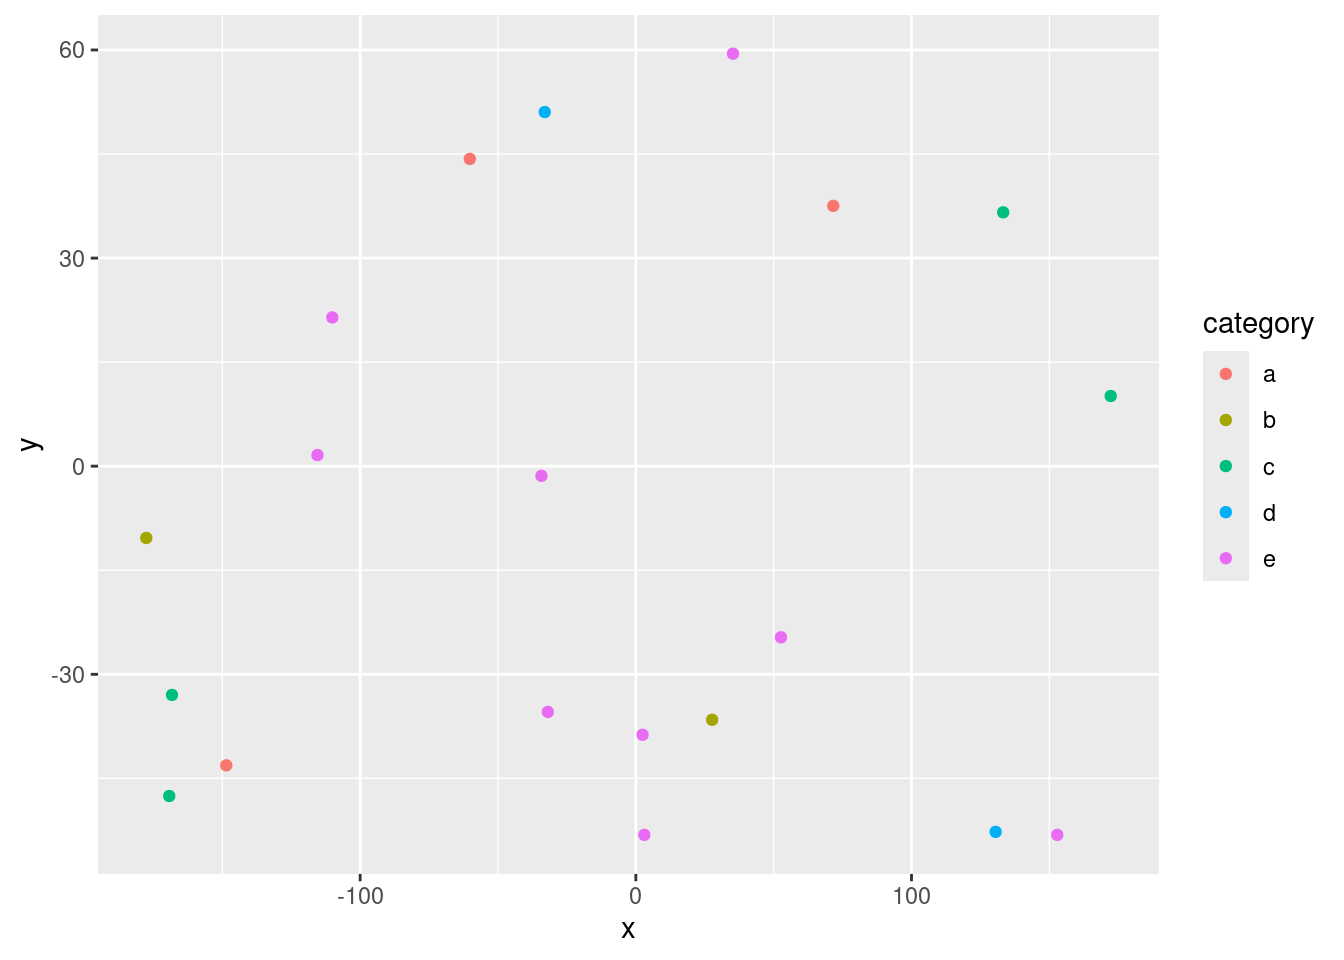
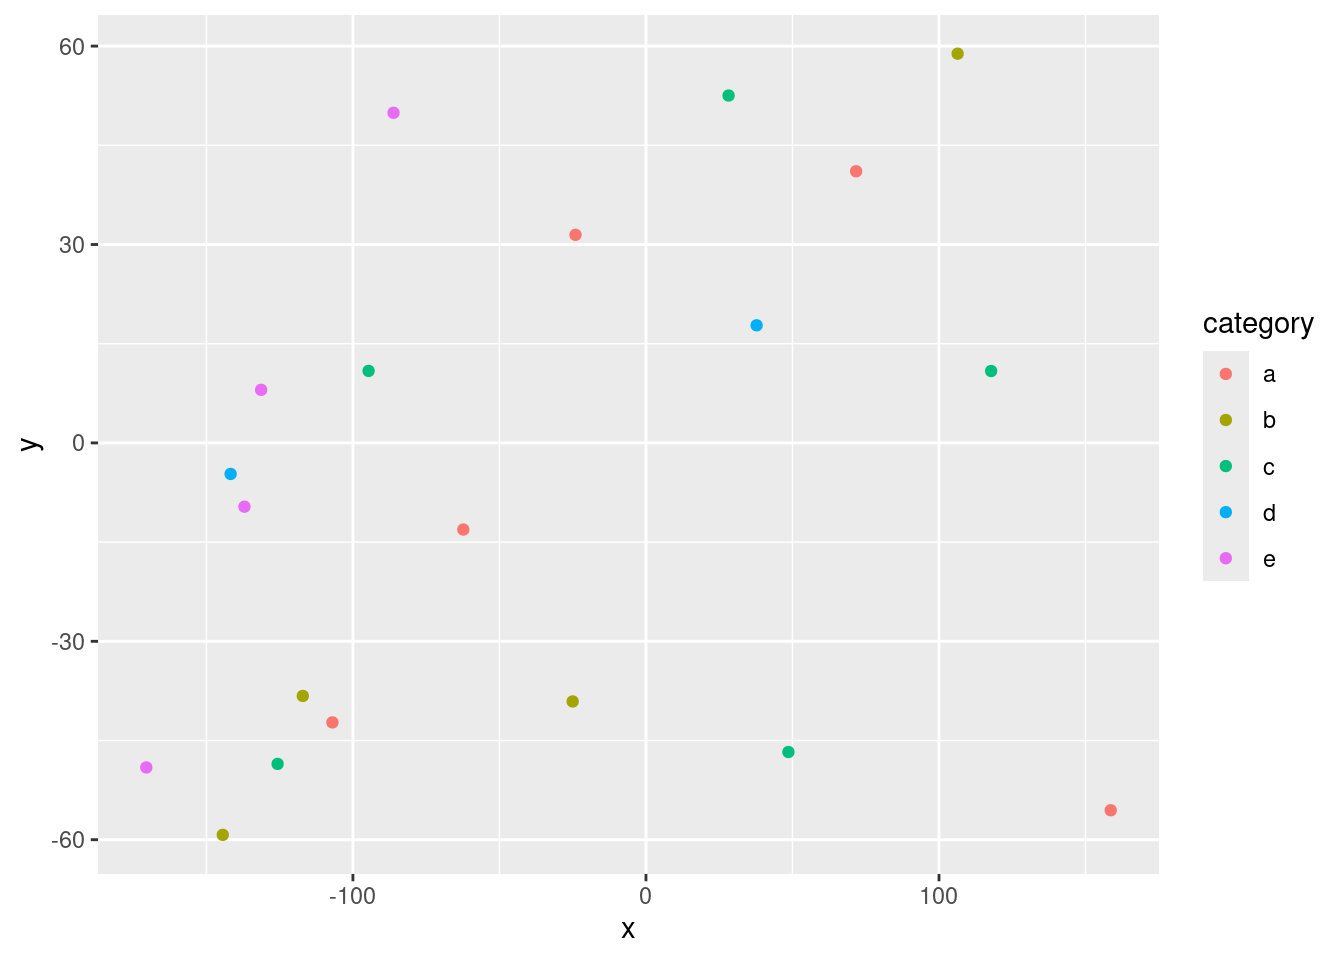
Built site for gh-pages

diff --git a/index.html b/index.html
@@ -168,7 +168,7 @@ pre > code.sourceCode > span > a:first-child::before { text-decoration: underlin
 <header id="title-block-header" class="quarto-title-block default">
 <div class="quarto-title">
 <h1 class="title">Analysis of Urban Tree Cover: City of Buffalo 2024</h1>
-<p class="subtitle lead">Work in Progress</p>
+<p class="subtitle lead">Work in Progress, Pay no attention to the man behind the curtain</p>
 </div>
 
 
@@ -212,6 +212,7 @@ pre > code.sourceCode > span > a:first-child::before { text-decoration: underlin
 <p>You can do bullets like this:</p>
 <ul>
 <li>The first most important thing</li>
+<li>https_//data.buffalony.gov/api/views/n4ni-uuec/rows.csv?accessType=DOWNLOAD</li>
 <li>The second most important thing</li>
 <li>The third most important thing</li>
 </ul>
@@ -267,74 +268,74 @@ pre > code.sourceCode > span > a:first-child::before { text-decoration: underlin
 </thead>
 <tbody>
 <tr class="odd">
-<td style="text-align: center;">-177.58</td>
-<td style="text-align: center;">-10.34</td>
-<td style="text-align: center;">13.76</td>
+<td style="text-align: center;">-25.01</td>
+<td style="text-align: center;">-39.10</td>
+<td style="text-align: center;">19.96</td>
 <td style="text-align: center;">b</td>
-<td style="text-align: center;">0.55</td>
+<td style="text-align: center;">-1.04</td>
 </tr>
 <tr class="even">
-<td style="text-align: center;">-168.26</td>
-<td style="text-align: center;">-32.98</td>
-<td style="text-align: center;">17.14</td>
-<td style="text-align: center;">c</td>
-<td style="text-align: center;">-1.70</td>
-</tr>
-<tr class="odd">
-<td style="text-align: center;">152.87</td>
-<td style="text-align: center;">-53.15</td>
-<td style="text-align: center;">6.79</td>
-<td style="text-align: center;">e</td>
-<td style="text-align: center;">1.37</td>
-</tr>
-<tr class="even">
-<td style="text-align: center;">-110.10</td>
-<td style="text-align: center;">21.44</td>
-<td style="text-align: center;">15.62</td>
-<td style="text-align: center;">e</td>
-<td style="text-align: center;">1.27</td>
-</tr>
-<tr class="odd">
-<td style="text-align: center;">-169.26</td>
-<td style="text-align: center;">-47.55</td>
-<td style="text-align: center;">14.34</td>
-<td style="text-align: center;">c</td>
-<td style="text-align: center;">0.05</td>
-</tr>
-<tr class="even">
-<td style="text-align: center;">130.53</td>
-<td style="text-align: center;">-52.71</td>
-<td style="text-align: center;">12.85</td>
+<td style="text-align: center;">-141.74</td>
+<td style="text-align: center;">-4.70</td>
+<td style="text-align: center;">16.68</td>
 <td style="text-align: center;">d</td>
-<td style="text-align: center;">0.50</td>
+<td style="text-align: center;">0.12</td>
 </tr>
 <tr class="odd">
-<td style="text-align: center;">2.43</td>
-<td style="text-align: center;">-38.72</td>
-<td style="text-align: center;">9.55</td>
-<td style="text-align: center;">e</td>
-<td style="text-align: center;">0.27</td>
+<td style="text-align: center;">71.72</td>
+<td style="text-align: center;">41.07</td>
+<td style="text-align: center;">9.44</td>
+<td style="text-align: center;">a</td>
+<td style="text-align: center;">-0.61</td>
 </tr>
 <tr class="even">
-<td style="text-align: center;">27.68</td>
-<td style="text-align: center;">-36.56</td>
-<td style="text-align: center;">15.93</td>
+<td style="text-align: center;">-86.14</td>
+<td style="text-align: center;">49.92</td>
+<td style="text-align: center;">13.36</td>
+<td style="text-align: center;">e</td>
+<td style="text-align: center;">-1.25</td>
+</tr>
+<tr class="odd">
+<td style="text-align: center;">158.60</td>
+<td style="text-align: center;">-55.55</td>
+<td style="text-align: center;">10.91</td>
+<td style="text-align: center;">a</td>
+<td style="text-align: center;">-0.24</td>
+</tr>
+<tr class="even">
+<td style="text-align: center;">-24.04</td>
+<td style="text-align: center;">31.46</td>
+<td style="text-align: center;">15.12</td>
+<td style="text-align: center;">a</td>
+<td style="text-align: center;">-0.77</td>
+</tr>
+<tr class="odd">
+<td style="text-align: center;">-144.41</td>
+<td style="text-align: center;">-59.27</td>
+<td style="text-align: center;">6.67</td>
 <td style="text-align: center;">b</td>
-<td style="text-align: center;">0.40</td>
-</tr>
-<tr class="odd">
-<td style="text-align: center;">133.25</td>
-<td style="text-align: center;">36.59</td>
-<td style="text-align: center;">6.28</td>
-<td style="text-align: center;">c</td>
-<td style="text-align: center;">-0.03</td>
+<td style="text-align: center;">0.17</td>
 </tr>
 <tr class="even">
-<td style="text-align: center;">52.65</td>
-<td style="text-align: center;">-24.67</td>
-<td style="text-align: center;">7.98</td>
-<td style="text-align: center;">e</td>
-<td style="text-align: center;">0.90</td>
+<td style="text-align: center;">117.80</td>
+<td style="text-align: center;">10.87</td>
+<td style="text-align: center;">10.90</td>
+<td style="text-align: center;">c</td>
+<td style="text-align: center;">-0.76</td>
+</tr>
+<tr class="odd">
+<td style="text-align: center;">28.19</td>
+<td style="text-align: center;">52.53</td>
+<td style="text-align: center;">7.05</td>
+<td style="text-align: center;">c</td>
+<td style="text-align: center;">0.74</td>
+</tr>
+<tr class="even">
+<td style="text-align: center;">-125.71</td>
+<td style="text-align: center;">-48.54</td>
+<td style="text-align: center;">11.17</td>
+<td style="text-align: center;">c</td>
+<td style="text-align: center;">-0.59</td>
 </tr>
 </tbody>
 </table>
@@ -356,8 +357,8 @@ pre > code.sourceCode > span > a:first-child::before { text-decoration: underlin
 <span id="cb5-4"><a href="#cb5-4" aria-hidden="true" tabindex="-1"></a>  <span class="fu">addPopups</span>(<span class="sc">~</span>x[<span class="dv">2</span>], <span class="sc">~</span>y[<span class="dv">2</span>], <span class="st">"Random popup"</span>)</span>
 <span id="cb5-5"><a href="#cb5-5" aria-hidden="true" tabindex="-1"></a>m  <span class="co"># a map with the default OSM tile layer</span></span></code><button title="Copy to Clipboard" class="code-copy-button"><i class="bi"></i></button></pre></div>
 <div class="cell-output-display">
-<div class="leaflet html-widget html-fill-item" id="htmlwidget-f9456d033fb25e3c9dec" style="width:100%;height:325px;"></div>
-<script type="application/json" data-for="htmlwidget-f9456d033fb25e3c9dec">{"x":{"options":{"crs":{"crsClass":"L.CRS.EPSG3857","code":null,"proj4def":null,"projectedBounds":null,"options":{}}},"calls":[{"method":"addTiles","args":["https://{s}.tile.openstreetmap.org/{z}/{x}/{y}.png",null,null,{"minZoom":0,"maxZoom":18,"tileSize":256,"subdomains":"abc","errorTileUrl":"","tms":false,"noWrap":false,"zoomOffset":0,"zoomReverse":false,"opacity":1,"zIndex":1,"detectRetina":false,"attribution":"&copy; <a href=\"https://openstreetmap.org/copyright/\">OpenStreetMap<\/a>,  <a href=\"https://opendatacommons.org/licenses/odbl/\">ODbL<\/a>"}]},{"method":"addCircleMarkers","args":[[-10.34031447954476,-32.97632804140449,-53.14674703404307,21.44437219016254,-47.54778608679771,-52.71326238289475,-38.71808200143278,-36.56063013710082,36.59374278970063,-24.66925436630845,10.11686014942825,-53.14902786165476,59.4681382086128,51.05119977146387,-43.13101815059781,-35.4290440119803,1.600914783775806,37.52817051485181,-1.393177360296249,44.29458757862449],[-177.5823422055691,-168.2625163905323,152.8662885446101,-110.104066086933,-169.2595474608243,130.5253660026938,2.431993782520294,27.67752111889422,133.2529382966459,52.64559974893928,172.2634712699801,3.069752007722855,35.2455603517592,-33.046341156587,-148.5707645863295,-31.91450888291001,-115.4840410966426,71.62412786856294,-34.24342554062605,-60.2258868701756],[13.76266710460186,17.13761580525897,6.788592755328864,15.62462489819154,14.34483517543413,12.85356076667085,9.550645156996325,15.93468809616752,6.28431377466768,7.976659007836133,18.80783915985376,12.3645954253152,16.80534519138746,14.28932513808832,6.106830481439829,7.038827353389934,14.56135505577549,19.849233108107,19.75860362290405,19.24461925402284],null,null,{"interactive":true,"className":"","stroke":true,"color":["b","c","e","e","c","d","e","b","c","e","c","e","e","d","a","e","e","a","e","a"],"weight":5,"opacity":0.5,"fill":true,"fillColor":["b","c","e","e","c","d","e","b","c","e","c","e","e","d","a","e","e","a","e","a"],"fillOpacity":0.2},null,null,null,null,null,{"interactive":false,"permanent":false,"direction":"auto","opacity":1,"offset":[0,0],"textsize":"10px","textOnly":false,"className":"","sticky":true},null]},{"method":"addPopups","args":[-32.97632804140449,-168.2625163905323,"Random popup",null,null,{"maxWidth":300,"minWidth":50,"autoPan":true,"keepInView":false,"closeButton":true,"className":""}]}],"limits":{"lat":[-53.14902786165476,59.4681382086128],"lng":[-177.5823422055691,172.2634712699801]}},"evals":[],"jsHooks":[]}</script>
+<div class="leaflet html-widget html-fill-item" id="htmlwidget-168268369600747f86f0" style="width:100%;height:325px;"></div>
+<script type="application/json" data-for="htmlwidget-168268369600747f86f0">{"x":{"options":{"crs":{"crsClass":"L.CRS.EPSG3857","code":null,"proj4def":null,"projectedBounds":null,"options":{}}},"calls":[{"method":"addTiles","args":["https://{s}.tile.openstreetmap.org/{z}/{x}/{y}.png",null,null,{"minZoom":0,"maxZoom":18,"tileSize":256,"subdomains":"abc","errorTileUrl":"","tms":false,"noWrap":false,"zoomOffset":0,"zoomReverse":false,"opacity":1,"zIndex":1,"detectRetina":false,"attribution":"&copy; <a href=\"https://openstreetmap.org/copyright/\">OpenStreetMap<\/a>,  <a href=\"https://opendatacommons.org/licenses/odbl/\">ODbL<\/a>"}]},{"method":"addCircleMarkers","args":[[-39.09839607775211,-4.696176862344146,41.07297895476222,49.9161060154438,-55.5524861253798,31.46188599988818,-59.27236871793866,10.8701011352241,52.52930307760835,-48.54176659137011,-38.26191287487745,-46.74346416257322,-42.26706110872328,-49.07783875241876,58.85697819292545,8.022894328460097,-9.644012935459614,10.88723536580801,-13.10212089680135,17.78062622062862],[-25.01206669025123,-141.740560149774,71.72386279329658,-86.13688451237977,158.6020717397332,-24.044283432886,-144.4092959258705,117.797083184123,28.19479275494814,-125.7056775502861,-117.1057490073144,48.61757224425673,-106.9963141344488,-170.5145303439349,106.3658273778856,-131.3258585426956,-137.0225440151989,-94.6556834410876,-62.32370859012008,37.77219613082707],[19.9585533014033,16.67554903193377,9.444898266810924,13.36228974862024,10.90759944170713,15.1244837034028,6.666768128052354,10.89511740487069,7.049253553850576,11.17175235413015,6.00695674540475,12.63947851839475,9.393855280941352,13.35309593938291,16.84261691640131,17.72778611048125,15.16208202927373,11.69185934704728,14.27902411436662,9.545504682464525],null,null,{"interactive":true,"className":"","stroke":true,"color":["b","d","a","e","a","a","b","c","c","c","b","c","a","e","b","e","e","c","a","d"],"weight":5,"opacity":0.5,"fill":true,"fillColor":["b","d","a","e","a","a","b","c","c","c","b","c","a","e","b","e","e","c","a","d"],"fillOpacity":0.2},null,null,null,null,null,{"interactive":false,"permanent":false,"direction":"auto","opacity":1,"offset":[0,0],"textsize":"10px","textOnly":false,"className":"","sticky":true},null]},{"method":"addPopups","args":[-4.696176862344146,-141.740560149774,"Random popup",null,null,{"maxWidth":300,"minWidth":50,"autoPan":true,"keepInView":false,"closeButton":true,"className":""}]}],"limits":{"lat":[-59.27236871793866,58.85697819292545],"lng":[-170.5145303439349,158.6020717397332]}},"evals":[],"jsHooks":[]}</script>
 <p>Map of completely random data</p>
 </div>
 </div>
@@ -380,8 +381,8 @@ pre > code.sourceCode > span > a:first-child::before { text-decoration: underlin
 <span id="cb7-2"><a href="#cb7-2" aria-hidden="true" tabindex="-1"></a><span class="fu">dygraph</span>(nhtemp, <span class="at">main =</span> <span class="st">"New Haven Temperatures"</span>) <span class="sc">|&gt;</span> </span>
 <span id="cb7-3"><a href="#cb7-3" aria-hidden="true" tabindex="-1"></a>  <span class="fu">dyRangeSelector</span>(<span class="at">dateWindow =</span> <span class="fu">c</span>(<span class="st">"1920-01-01"</span>, <span class="st">"1960-01-01"</span>)) </span></code><button title="Copy to Clipboard" class="code-copy-button"><i class="bi"></i></button></pre></div>
 <div class="cell-output-display">
-<div class="dygraphs html-widget html-fill-item" id="htmlwidget-b42eebb90aeae4c67947" style="width:100%;height:464px;"></div>
-<script type="application/json" data-for="htmlwidget-b42eebb90aeae4c67947">{"x":{"attrs":{"title":"New Haven Temperatures","labels":["year","V1"],"legend":"auto","retainDateWindow":false,"axes":{"x":{"pixelsPerLabel":60}},"showRangeSelector":true,"dateWindow":["1920-01-01T00:00:00.000Z","1960-01-01T00:00:00.000Z"],"rangeSelectorHeight":40,"rangeSelectorPlotFillColor":" #A7B1C4","rangeSelectorPlotStrokeColor":"#808FAB","interactionModel":"Dygraph.Interaction.defaultModel"},"scale":"yearly","annotations":[],"shadings":[],"events":[],"format":"date","data":[["1912-01-01T00:00:00.000Z","1913-01-01T00:00:00.000Z","1914-01-01T00:00:00.000Z","1915-01-01T00:00:00.000Z","1916-01-01T00:00:00.000Z","1917-01-01T00:00:00.000Z","1918-01-01T00:00:00.000Z","1919-01-01T00:00:00.000Z","1920-01-01T00:00:00.000Z","1921-01-01T00:00:00.000Z","1922-01-01T00:00:00.000Z","1923-01-01T00:00:00.000Z","1924-01-01T00:00:00.000Z","1925-01-01T00:00:00.000Z","1926-01-01T00:00:00.000Z","1927-01-01T00:00:00.000Z","1928-01-01T00:00:00.000Z","1929-01-01T00:00:00.000Z","1930-01-01T00:00:00.000Z","1931-01-01T00:00:00.000Z","1932-01-01T00:00:00.000Z","1933-01-01T00:00:00.000Z","1934-01-01T00:00:00.000Z","1935-01-01T00:00:00.000Z","1936-01-01T00:00:00.000Z","1937-01-01T00:00:00.000Z","1938-01-01T00:00:00.000Z","1939-01-01T00:00:00.000Z","1940-01-01T00:00:00.000Z","1941-01-01T00:00:00.000Z","1942-01-01T00:00:00.000Z","1943-01-01T00:00:00.000Z","1944-01-01T00:00:00.000Z","1945-01-01T00:00:00.000Z","1946-01-01T00:00:00.000Z","1947-01-01T00:00:00.000Z","1948-01-01T00:00:00.000Z","1949-01-01T00:00:00.000Z","1950-01-01T00:00:00.000Z","1951-01-01T00:00:00.000Z","1952-01-01T00:00:00.000Z","1953-01-01T00:00:00.000Z","1954-01-01T00:00:00.000Z","1955-01-01T00:00:00.000Z","1956-01-01T00:00:00.000Z","1957-01-01T00:00:00.000Z","1958-01-01T00:00:00.000Z","1959-01-01T00:00:00.000Z","1960-01-01T00:00:00.000Z","1961-01-01T00:00:00.000Z","1962-01-01T00:00:00.000Z","1963-01-01T00:00:00.000Z","1964-01-01T00:00:00.000Z","1965-01-01T00:00:00.000Z","1966-01-01T00:00:00.000Z","1967-01-01T00:00:00.000Z","1968-01-01T00:00:00.000Z","1969-01-01T00:00:00.000Z","1970-01-01T00:00:00.000Z","1971-01-01T00:00:00.000Z"],[49.9,52.3,49.4,51.1,49.4,47.9,49.8,50.9,49.3,51.9,50.8,49.6,49.3,50.6,48.4,50.7,50.9,50.6,51.5,52.8,51.8,51.1,49.8,50.2,50.4,51.6,51.8,50.9,48.8,51.7,51,50.6,51.7,51.5,52.1,51.3,51,54,51.4,52.7,53.1,54.6,52,52,50.9,52.6,50.2,52.6,51.6,51.9,50.5,50.9,51.7,51.4,51.7,50.8,51.9,51.8,51.9,53]]},"evals":["attrs.interactionModel"],"jsHooks":[]}</script>
+<div class="dygraphs html-widget html-fill-item" id="htmlwidget-13fb2ac7ba98c6a9495a" style="width:100%;height:464px;"></div>
+<script type="application/json" data-for="htmlwidget-13fb2ac7ba98c6a9495a">{"x":{"attrs":{"title":"New Haven Temperatures","labels":["year","V1"],"legend":"auto","retainDateWindow":false,"axes":{"x":{"pixelsPerLabel":60}},"showRangeSelector":true,"dateWindow":["1920-01-01T00:00:00.000Z","1960-01-01T00:00:00.000Z"],"rangeSelectorHeight":40,"rangeSelectorPlotFillColor":" #A7B1C4","rangeSelectorPlotStrokeColor":"#808FAB","interactionModel":"Dygraph.Interaction.defaultModel"},"scale":"yearly","annotations":[],"shadings":[],"events":[],"format":"date","data":[["1912-01-01T00:00:00.000Z","1913-01-01T00:00:00.000Z","1914-01-01T00:00:00.000Z","1915-01-01T00:00:00.000Z","1916-01-01T00:00:00.000Z","1917-01-01T00:00:00.000Z","1918-01-01T00:00:00.000Z","1919-01-01T00:00:00.000Z","1920-01-01T00:00:00.000Z","1921-01-01T00:00:00.000Z","1922-01-01T00:00:00.000Z","1923-01-01T00:00:00.000Z","1924-01-01T00:00:00.000Z","1925-01-01T00:00:00.000Z","1926-01-01T00:00:00.000Z","1927-01-01T00:00:00.000Z","1928-01-01T00:00:00.000Z","1929-01-01T00:00:00.000Z","1930-01-01T00:00:00.000Z","1931-01-01T00:00:00.000Z","1932-01-01T00:00:00.000Z","1933-01-01T00:00:00.000Z","1934-01-01T00:00:00.000Z","1935-01-01T00:00:00.000Z","1936-01-01T00:00:00.000Z","1937-01-01T00:00:00.000Z","1938-01-01T00:00:00.000Z","1939-01-01T00:00:00.000Z","1940-01-01T00:00:00.000Z","1941-01-01T00:00:00.000Z","1942-01-01T00:00:00.000Z","1943-01-01T00:00:00.000Z","1944-01-01T00:00:00.000Z","1945-01-01T00:00:00.000Z","1946-01-01T00:00:00.000Z","1947-01-01T00:00:00.000Z","1948-01-01T00:00:00.000Z","1949-01-01T00:00:00.000Z","1950-01-01T00:00:00.000Z","1951-01-01T00:00:00.000Z","1952-01-01T00:00:00.000Z","1953-01-01T00:00:00.000Z","1954-01-01T00:00:00.000Z","1955-01-01T00:00:00.000Z","1956-01-01T00:00:00.000Z","1957-01-01T00:00:00.000Z","1958-01-01T00:00:00.000Z","1959-01-01T00:00:00.000Z","1960-01-01T00:00:00.000Z","1961-01-01T00:00:00.000Z","1962-01-01T00:00:00.000Z","1963-01-01T00:00:00.000Z","1964-01-01T00:00:00.000Z","1965-01-01T00:00:00.000Z","1966-01-01T00:00:00.000Z","1967-01-01T00:00:00.000Z","1968-01-01T00:00:00.000Z","1969-01-01T00:00:00.000Z","1970-01-01T00:00:00.000Z","1971-01-01T00:00:00.000Z"],[49.9,52.3,49.4,51.1,49.4,47.9,49.8,50.9,49.3,51.9,50.8,49.6,49.3,50.6,48.4,50.7,50.9,50.6,51.5,52.8,51.8,51.1,49.8,50.2,50.4,51.6,51.8,50.9,48.8,51.7,51,50.6,51.7,51.5,52.1,51.3,51,54,51.4,52.7,53.1,54.6,52,52,50.9,52.6,50.2,52.6,51.6,51.9,50.5,50.9,51.7,51.4,51.7,50.8,51.9,51.8,51.9,53]]},"evals":["attrs.interactionModel"],"jsHooks":[]}</script>
 </div>
 </div>
 </section>
